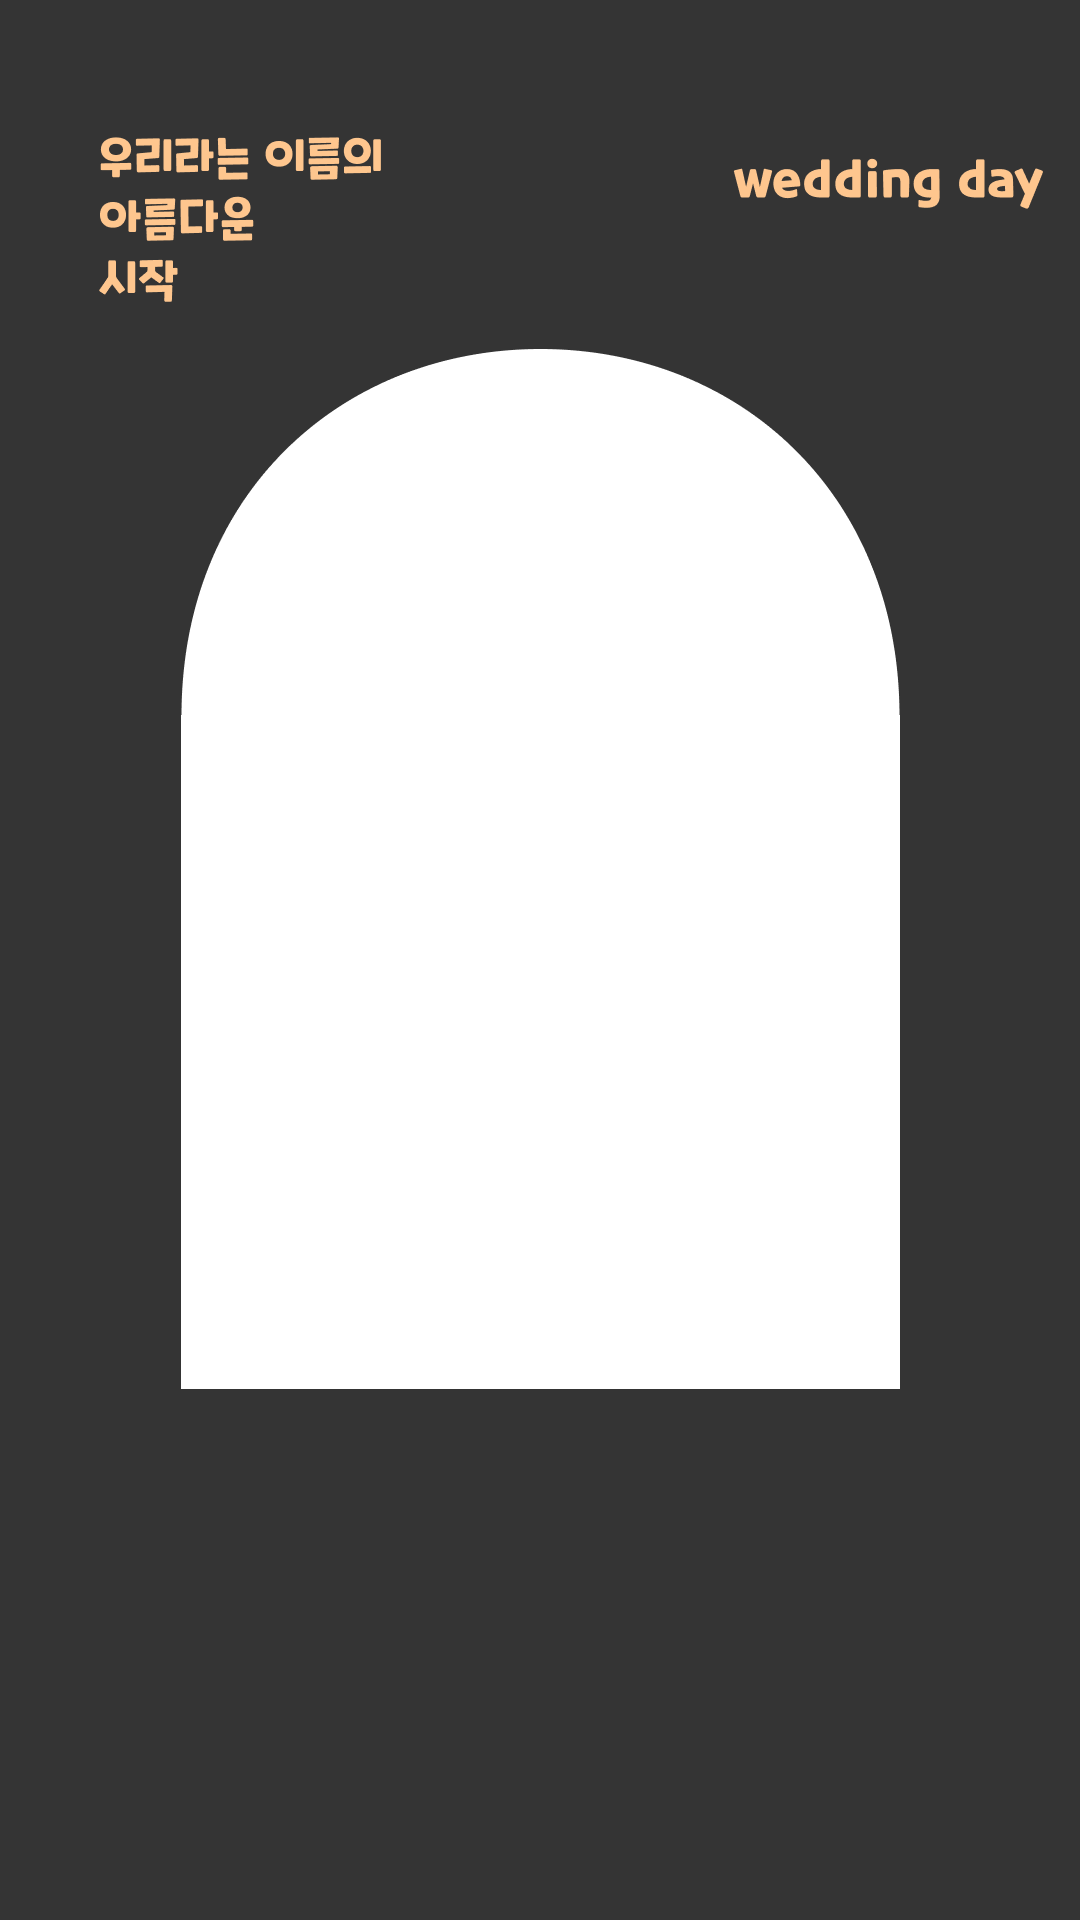
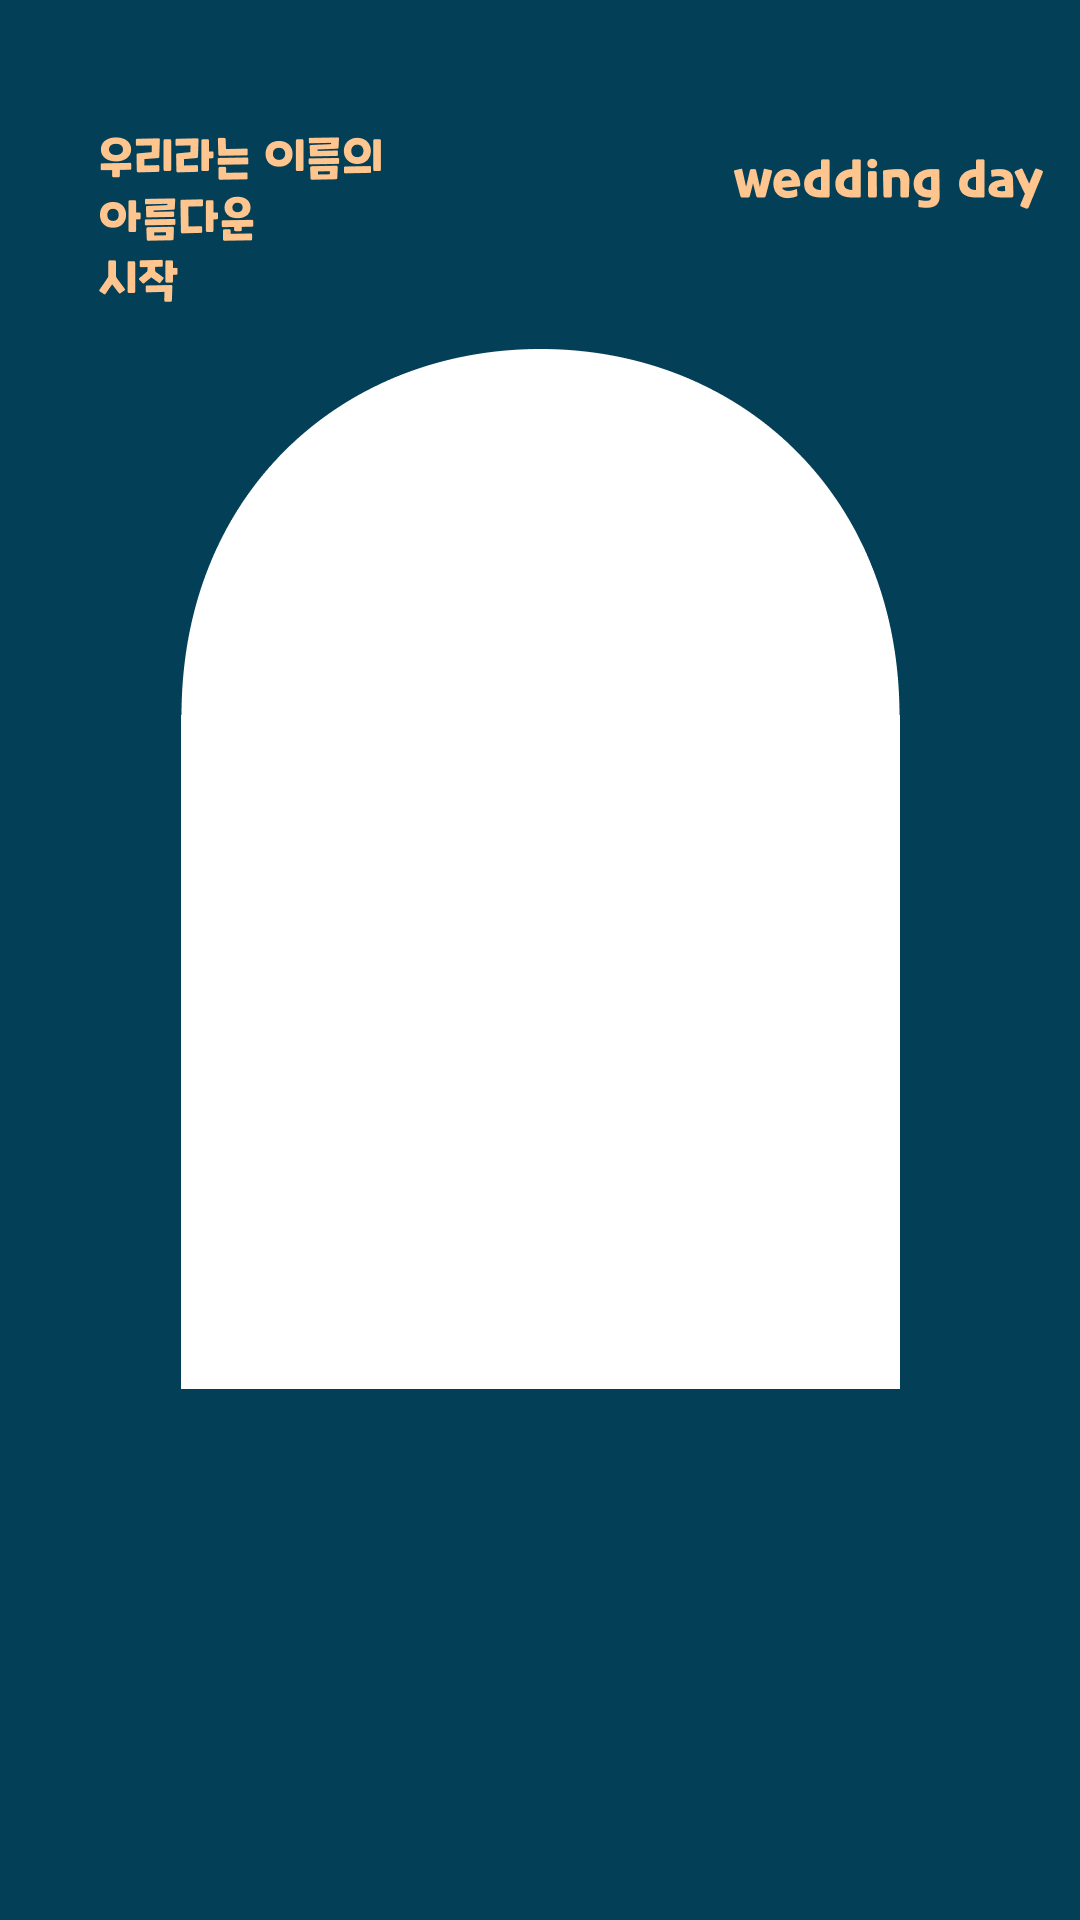
색상 변경

diff --git a/index.thml_files/style_color_t5c3.css b/index.thml_files/style_color_t5c3.css
@@ -27,10 +27,10 @@
 }
 
 .section {
-    background-color: #343434;
+    background-color: #043F58;
 }
 .section:nth-child(odd) {
-     background-color: #343434;
+     background-color: #043F58;
 }
 
 .section_body_radius {
@@ -108,7 +108,7 @@
 }
 /* BŸ�� ������ */
 #photo_view_wrapper {
-   background-color: #343434;
+   background-color: #043F58;
 }
 /* �����̵� ����Ÿ��Ʋ */
 .photo_view_sub_title {
@@ -132,7 +132,7 @@
 }
 /* tab menu button */
 .mcard_button2 {
-    background-color: #343434;
+    background-color: #043F58;
     color: #7f838c;
 }
 .mcard_button2_on {
